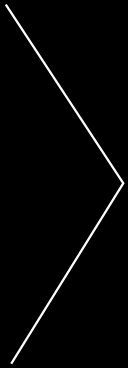
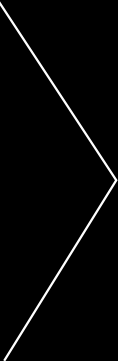
Tweak caret, appease safari

Changed region(s): [[0.0, 0.0, 1.0, 0.7008], [0.0254, 0.7008, 0.6102, 1.0]]

diff --git a/js/site.js b/js/site.js
@@ -345,7 +345,7 @@ jQuery( window ).load( function(){
 	var img  = document.getElementById("arrow");
 
 	link.globalAlpha = 0.9;
-	link.drawImage(img,2,0, 128, 368);
+	link.drawImage(img,0,0, 118, 361);
 
 	$( 'div.demo-left, div.demo-right' ).css( 'width', ( ( window.innerWidth - $( 'div.demo' ).width() )  / 2 ) );
 
